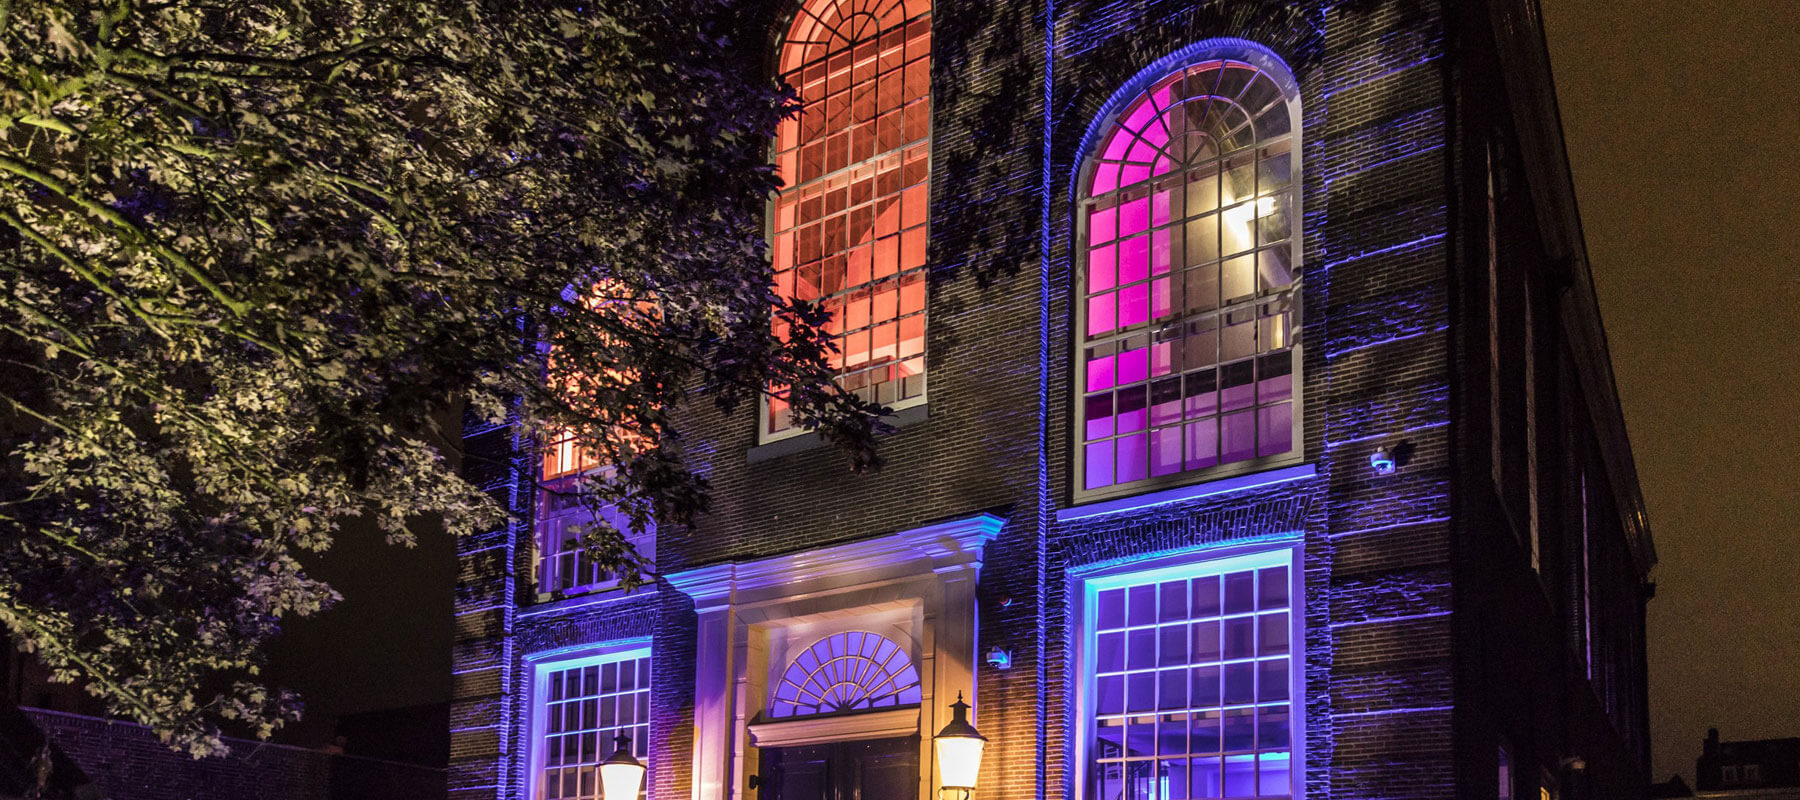
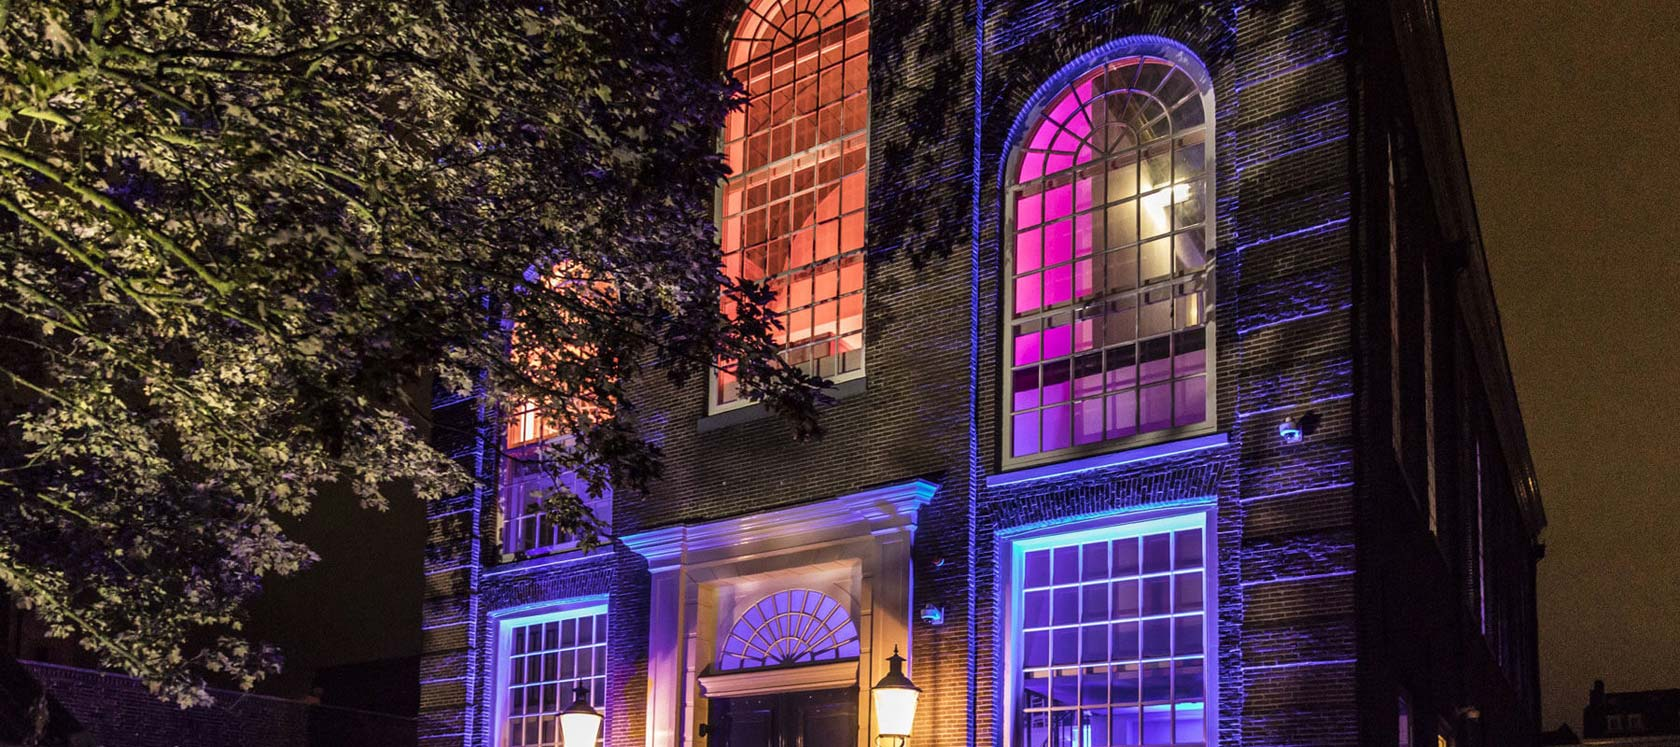
Images optimization (#13)
* small fixes

* optimize images

diff --git a/src/templates/index.html b/src/templates/index.html
@@ -36,7 +36,7 @@ info: [{
 team: {
   title: 'First speakers',
   items: [{
-      img: 'kyle.png?v2',
+      img: 'kyle-simpson.jpg',
       name: 'Kyle Simpson',
       company: 'DevGo, USA',
       info: "Founder, Teacher, Mentor, JavaScript Theologian, Open-First Developer. Author of \"You do not know JS\" books series.",
@@ -58,7 +58,7 @@ team: {
       color: '#ae4f01'
     },
     {
-      img: 'henry-zhu.png?v2',
+      img: 'henry-zhu.jpg',
       name: 'HENRY ZHU',
       company: 'Babel, USA',
       info: "Maintainer of <a href='https://babeljs.io'>Babel</a>. On a journey to live out the parallels of digital communities and faith in open source.",
@@ -80,7 +80,7 @@ team: {
       color: '#ae4f01'
     },
     {
-      img: 'tobias-koppers.png?v2',
+      img: 'tobias-koppers.jpg',
       name: 'TOBIAS KOPPERS',
       company: 'Webpack, Germany',
       info: 'Author of Webpack',
@@ -102,7 +102,7 @@ team: {
       color: '#ae4f01'
     },
     {
-      img: 'andre-staltz.png?v2',
+      img: 'andre-staltz.jpg',
       name: 'ANDRE STALTZ',
       company: 'Open source freelancer, Finland',
       info: 'Author of Cycle.js, RXJS core contributor, xstream, Callbags, Manyverse.',
@@ -126,7 +126,7 @@ team: {
       color: '#ffffff'
     },
     {
-      img: 'minko-gechev.png?v2',
+      img: 'minko-gechev.jpg',
       name: 'MINKO GECHEV',
       company: 'Google, USA',
       info: 'Angular core team at Google. Working for more reliable and faster software.',
@@ -149,7 +149,7 @@ team: {
       decor: true
     },
     {
-      img: 'nadieh-bremer.png?v2',
+      img: 'nadieh-bremer.jpg',
       name: 'NADIEH BREMER',
       company: 'Freelance, Netherlands',
       info: 'Passionate about Data Visualization. Graduated Astronomer. Love D3 | R',
@@ -167,7 +167,7 @@ team: {
       tag: 'Datavis',
       color: '#fff'
     }, {
-      img: 'michel-weststrate.png?v2',
+      img: 'michel-weststrate.jpg',
       name: 'MICHEL WESTSTRATE',
       company: 'Consultant, The Netherlands',
       info: 'Full-stack lead developer, TypeScript expert and an author of <a href="https://github.com/mobxjs/mobx">MobX</a>.',
@@ -190,7 +190,7 @@ team: {
       tag: 'React',
       color: '#030303'
     }, {
-      img: 'david-rousset.png?v2',
+      img: 'david-rousset.jpg',
       name: 'DAVID ROUSSET',
       company: 'Microsoft, Paris',
       info: 'SDE & Evangelist at Microsoft. Author of BabylonJS & VorlonJS. Composing music in a free time http://soundcloud.com/david-rousset',
@@ -214,7 +214,7 @@ team: {
       color: '#ffffff',
 
     }, {
-      img: 'mat-groves.png?v2',
+      img: 'mat-groves.jpg',
       name: 'MAT GROVES',
       company: 'Goodboy Digital, UK',
       info: 'Creative coder, all about Javascript, WebGL and optimisation. Creator of PixiJS.',
@@ -236,7 +236,7 @@ team: {
       color: '#00410a',
       decor: true
     }, {
-      img: 'gleb-bahmutov.png?v2',
+      img: 'gleb-bahmutov.jpg',
       name: 'GLEB BAHMUTOV',
       company: 'Cypress.io, USA',
       info: 'VP of engineering at <a href="http://cypress.io/">Cypress.io</a>, JavaScript ninja, image processing expert, software quality fanatic.',
@@ -258,7 +258,7 @@ team: {
       color: '#400042',
     },
     {
-      img: 'anna.png?v2',
+      img: 'anna-backs.jpg',
       name: 'Anna Backs',
       company: 'Codecentric AG, Germany',
       info: "Anna Backs is a software developer and IT-consultant. She is part of small team building an interactive 3D-control panel for managing the IoT devices in her company's office building. In her free time she walks her dog and drinks coffee.",
@@ -276,7 +276,7 @@ team: {
       color: '#fff',
     },
     {
-      img: 'krzysztof-kotowicz.png?v2',
+      img: 'krzysztof-kotowicz.jpg',
       name: 'KRZYSZTOF KOTOWICZ',
       company: 'Google, Switzerland',
       info: "Web security researcher specialising in discovery and exploitation of client-side vulnerabilities, and a software engineer in the Information Security Engineering team at Google.",
@@ -298,7 +298,7 @@ team: {
       color: '#ffffff',
     },
     {
-      img: 'christian-bromann.png?v2',
+      img: 'christian-bromann.jpg',
       name: 'CHRISTIAN BROMANN',
       company: 'SauceLabs, Germany',
       info: "Head of the <a href='https://webdriver.io/'>Webdriver.io</a> project. Testing all the things SauceLabs. Open source & open standards advocate",
@@ -316,7 +316,7 @@ team: {
       color: '#400042',
     },
     {
-      img: 'christina.png?v2',
+      img: 'christina-zenzens.jpg',
       name: 'Christina Zenzens',
       company: 'Codecentric AG, Germany',
       info: "Christina Zenzes is a consultant and software dev. She is part of a team that is developing an interactive control panel for managing all IoT devices in her company's office building. She likes to grow plants on her balcony, pet cats, cook, and eat.",
@@ -329,7 +329,7 @@ team: {
       color: '#fff',
     },
     {
-      img: 'jarrod.png?v2',
+      img: 'jarrod-overson.jpg',
       name: 'Jarrod Overson',
       company: 'Shape Security, USA',
       info: "Jarrod is a Director of Engineering at Shape Security. Frequent speaker on modern web threats and cybercrime and has been quoted by Forbes, the Wall Street Journal, CNET among others. Co-author of O’Reilly’s Developing Web Components, creator of Plato, a static analysis tool for web applications.",
@@ -347,7 +347,7 @@ team: {
       color: '#fff',
     },
     {
-      img: 'waleed.png?v2',
+      img: 'waleed-ashraf.jpg',
       name: 'Waleed Ashraf',
       company: 'Codecentric AG, Germany',
       info: "Member @Node.js Foundation & Node.js contributor",
@@ -365,7 +365,7 @@ team: {
       color: '#fff',
     },
     {
-      img: 'paulo.png?v2',
+      img: 'paulo-lopes.jpg',
       name: 'Paulo Lopes',
       company: 'RedHat, Netherlands',
       info: "10+ years of software development experience writing, rewriting, banging head against the wall, editing and re-editing high-performance web application",
@@ -383,7 +383,7 @@ team: {
       color: '#fff',
     },
     {
-      img: 'bruno.jpg',
+      img: 'bruno-lavit.jpg',
       name: 'Bruno Lavit',
       company: 'Alwaysdata, France',
       info: "Tech Evangelist at alwaysdata. He tries to inform about present and future of digital issues. His favorite book always remains «Alice in Wonderland».",
@@ -405,7 +405,7 @@ team: {
 teamHorizontal: {
   title: 'Your hosts',
   items: [{
-    img: 'tobias-koppers.png',
+    img: 'tobias-koppers.jpg',
     name: 'METTIN PARZINSKI',
     company: 'Goodboy Digital, UK',
     info: 'Creative coder, all about Javascript, WebGL and optimisation. Creator of PixiJS.',
@@ -419,7 +419,7 @@ teamHorizontal: {
       icon: 'gh'
     }, ],
   }, {
-    img: 'gleb-bahmutov.png',
+    img: 'gleb-bahmutov.jpg',
     name: 'CAROLYN STRANSKY',
     company: 'Framer X, The Netherlands',
     info: 'SDE & Evangelist at Microsoft. Author of BabylonJS & VorlonJS. Composing music in a free time http://soundcloud.com/david-rousset.',

diff --git a/src/templates/workshops.html b/src/templates/workshops.html
@@ -110,7 +110,7 @@ team: {
   title: 'Trainers',
   items: [
     {
-      img: 'kyle.png?v2',
+      img: 'kyle-simpson.jpg',
       name: 'Kyle Simpson',
       company: 'DevGo, USA',
       info: "Founder, Teacher, Mentor, JavaScript Theologian, Open-First Developer. Author of \"You do not know JS\" books series.",
@@ -130,9 +130,8 @@ team: {
       tagBG: '#fff40d',
       tag: 'Language',
       color: '#ae4f01'
-    },
-    {
-      img: 'alex.png',
+    },{
+      img: 'alex-lobera.jpg',
       name: 'Alex Lobera',
       company: 'LeanJS, UK',
       info: 'Experienced Full-stack Developer passionate about JavaScript, React and GraphQL. 15 years of experience in the software industry, including successful startups like Stella&Dot. Instructor & speaker. Organizer of the JavaScript London Meetup and other popular meetups in the EU. Alex started developing with React in April 2015 and taught his first React workshop in May 2016. Alex holds a computer science degree and he is also a certified Spanish teacher.',
@@ -154,7 +153,7 @@ team: {
       tag: 'Language',
       color: '#ae4f01'
     },{
-      img: 'anthony.png',
+      img: 'anthony-antoine.jpg',
       name: 'Anthony Antoine',
       company: 'Hackages, Belgium',
       info: "Anthony is an Open Source engineer at Hackages. He's always enjoyed using Javascript and started playing with frameworks back when Backbone and Ember were part of the Big Three. Nowadays he really likes using Vue and React for projects big and small, while still keeping an eye out for game changing new technologies. He also likes to investigate paradigms diverging from the traditional procedural / object-oriented programming.",
@@ -168,7 +167,7 @@ team: {
       tag: 'Language',
       color: '#ae4f01'
     },{
-      img: 'victor.png',
+      img: 'victor-bury.jpg',
       name: 'Victor Bury',
       company: 'Hackages, Belgium',
       info: 'Victor is an Open Source Engineer at Hackages. He is passionate about all things around JavaScript, especially Vue.js, in which he has immersed himself in the past few months. He does that when he is not working on an Angular project with the rest of the team, participating in HackJams, HackCamps and conferences or learning another latest new technology that just came out.',
@@ -186,7 +185,7 @@ team: {
       tag: 'Language',
       color: '#ae4f01'
     },{
-      img: 'maurice.png',
+      img: 'maurice-de-beijer.jpg',
       name: 'Maurice de Beijer',
       company: 'Freelance, Netherlands',
       info: 'Maurice de Beijer is an independent software consultant and trainer. He specializes in JavaScript, React, Angular 2+ and ASP.NET MVC. His work includes a large, global, safety application for the oil and gas industry. Maurice is also active in the open source community. He teaches ECMAScript, TypeScript, React, Angular 4 and ASP.NET MVC courses. Since 2005, he has received Microsoft’s Yearly Most Valuable Professional Award.',
@@ -221,7 +220,7 @@ team: {
 
 <main class="main">
   {{mixins.hero({
-    img: 'img/workshops.png',
+    img: 'img/workshops.jpg',
     title: 'Learn from the best cherry-picked trainers'
   })}}
   <!--<div class="bg-red">

diff --git a/src/templates/extended.html b/src/templates/extended.html
@@ -53,13 +53,13 @@ innerPage: true
     </div>
   </section>
   {{mixins.infoSection({
-  bg: 'img/js-party.png',
+  bg: 'img/js-party.jpg',
   title: "JS party",
   descr: "<p>After the main conference program is over we have a 2 hours break. Use it wisely to recharge or have a meal at food trucks area or one of the restaurants nearby to get prepared for the React Party. This year organized in collaboration with some of Amsterdam Dance Event crew and other cultural foundations.</p>
   <p>We are not going to unveil much in advance but just a small bit - the party will run in two completely different tracks and the fact React Amsterdam 2018 is Friday 13th provides us more opportunities to have fun.</p>
   <p>After-party starts at 19:00, same location as the conference.</p>",
   descrMod: 'info-section__descr_xl',
-  img: 'img/js-party-img.png'
+  img: 'img/js-party-img.jpg'
   })}}
   <section class="cards cards_lg">
     <div class="wrapper">

diff --git a/src/sass/partials/_hero.sass b/src/sass/partials/_hero.sass
@@ -151,6 +151,10 @@
 		min-height: auto
 		padding: 110px 0 100px
 		background-position: center
+		background-size: cover
+
+		&:after
+			display: none
 		+tablet
 			padding: 94px 20px
 		+md

diff --git a/src/templates/js-jobs.html b/src/templates/js-jobs.html
@@ -34,7 +34,7 @@ cards: [
 
 <main class="main">
   {{mixins.hero({
-  img: 'img/jobs.png',
+  img: 'img/jobs.jpg',
   title: 'Top JS Jobs'
   })}}
   <div class="bg-red">
